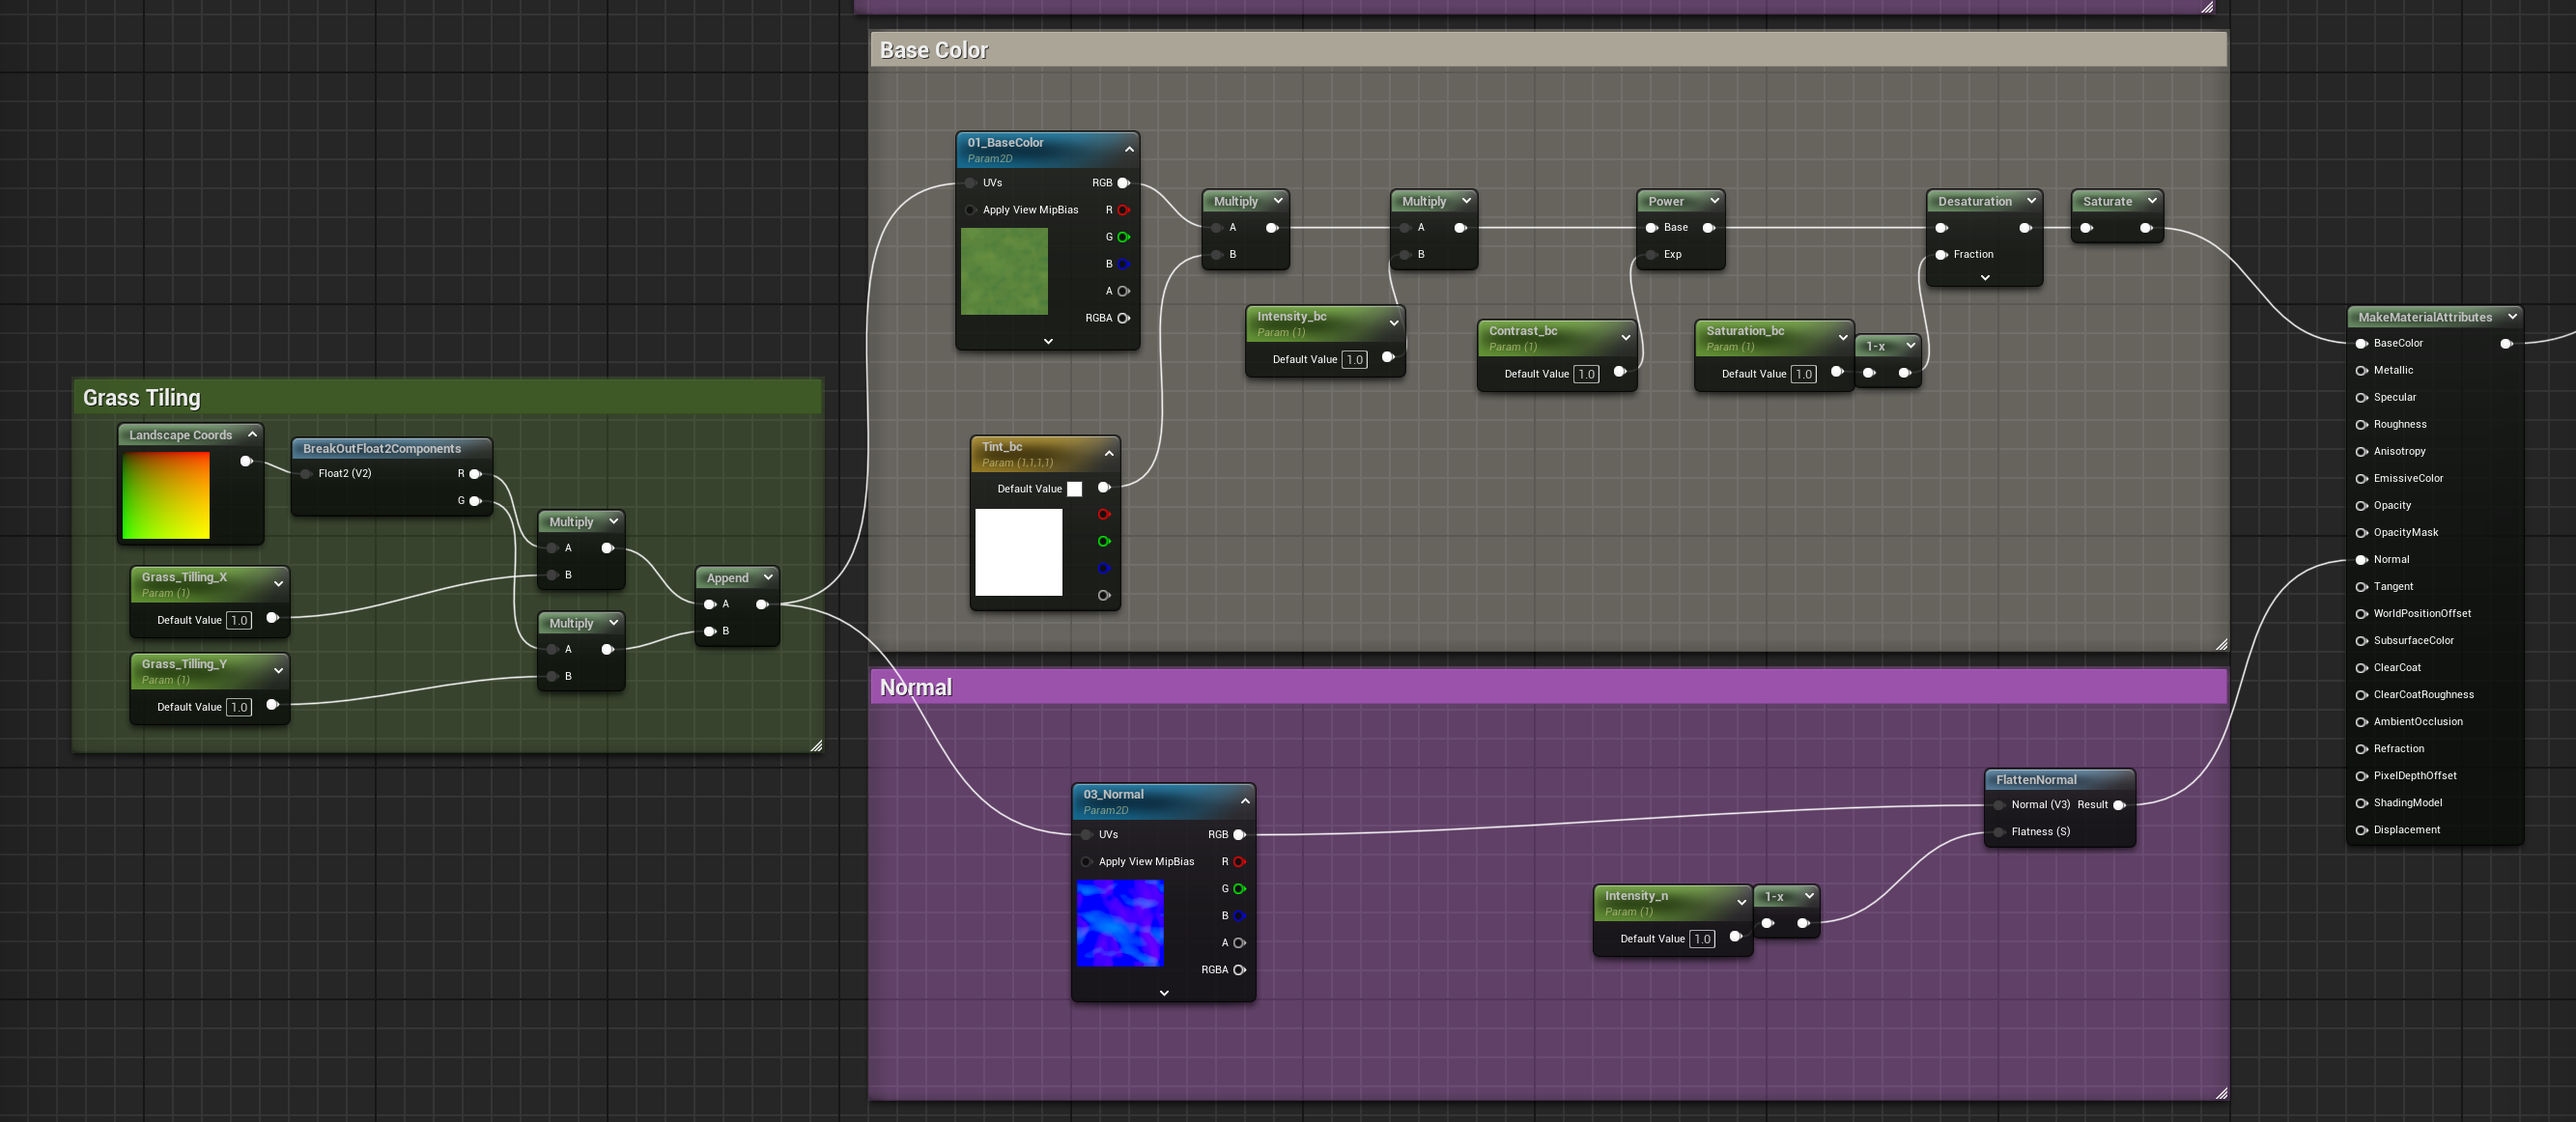
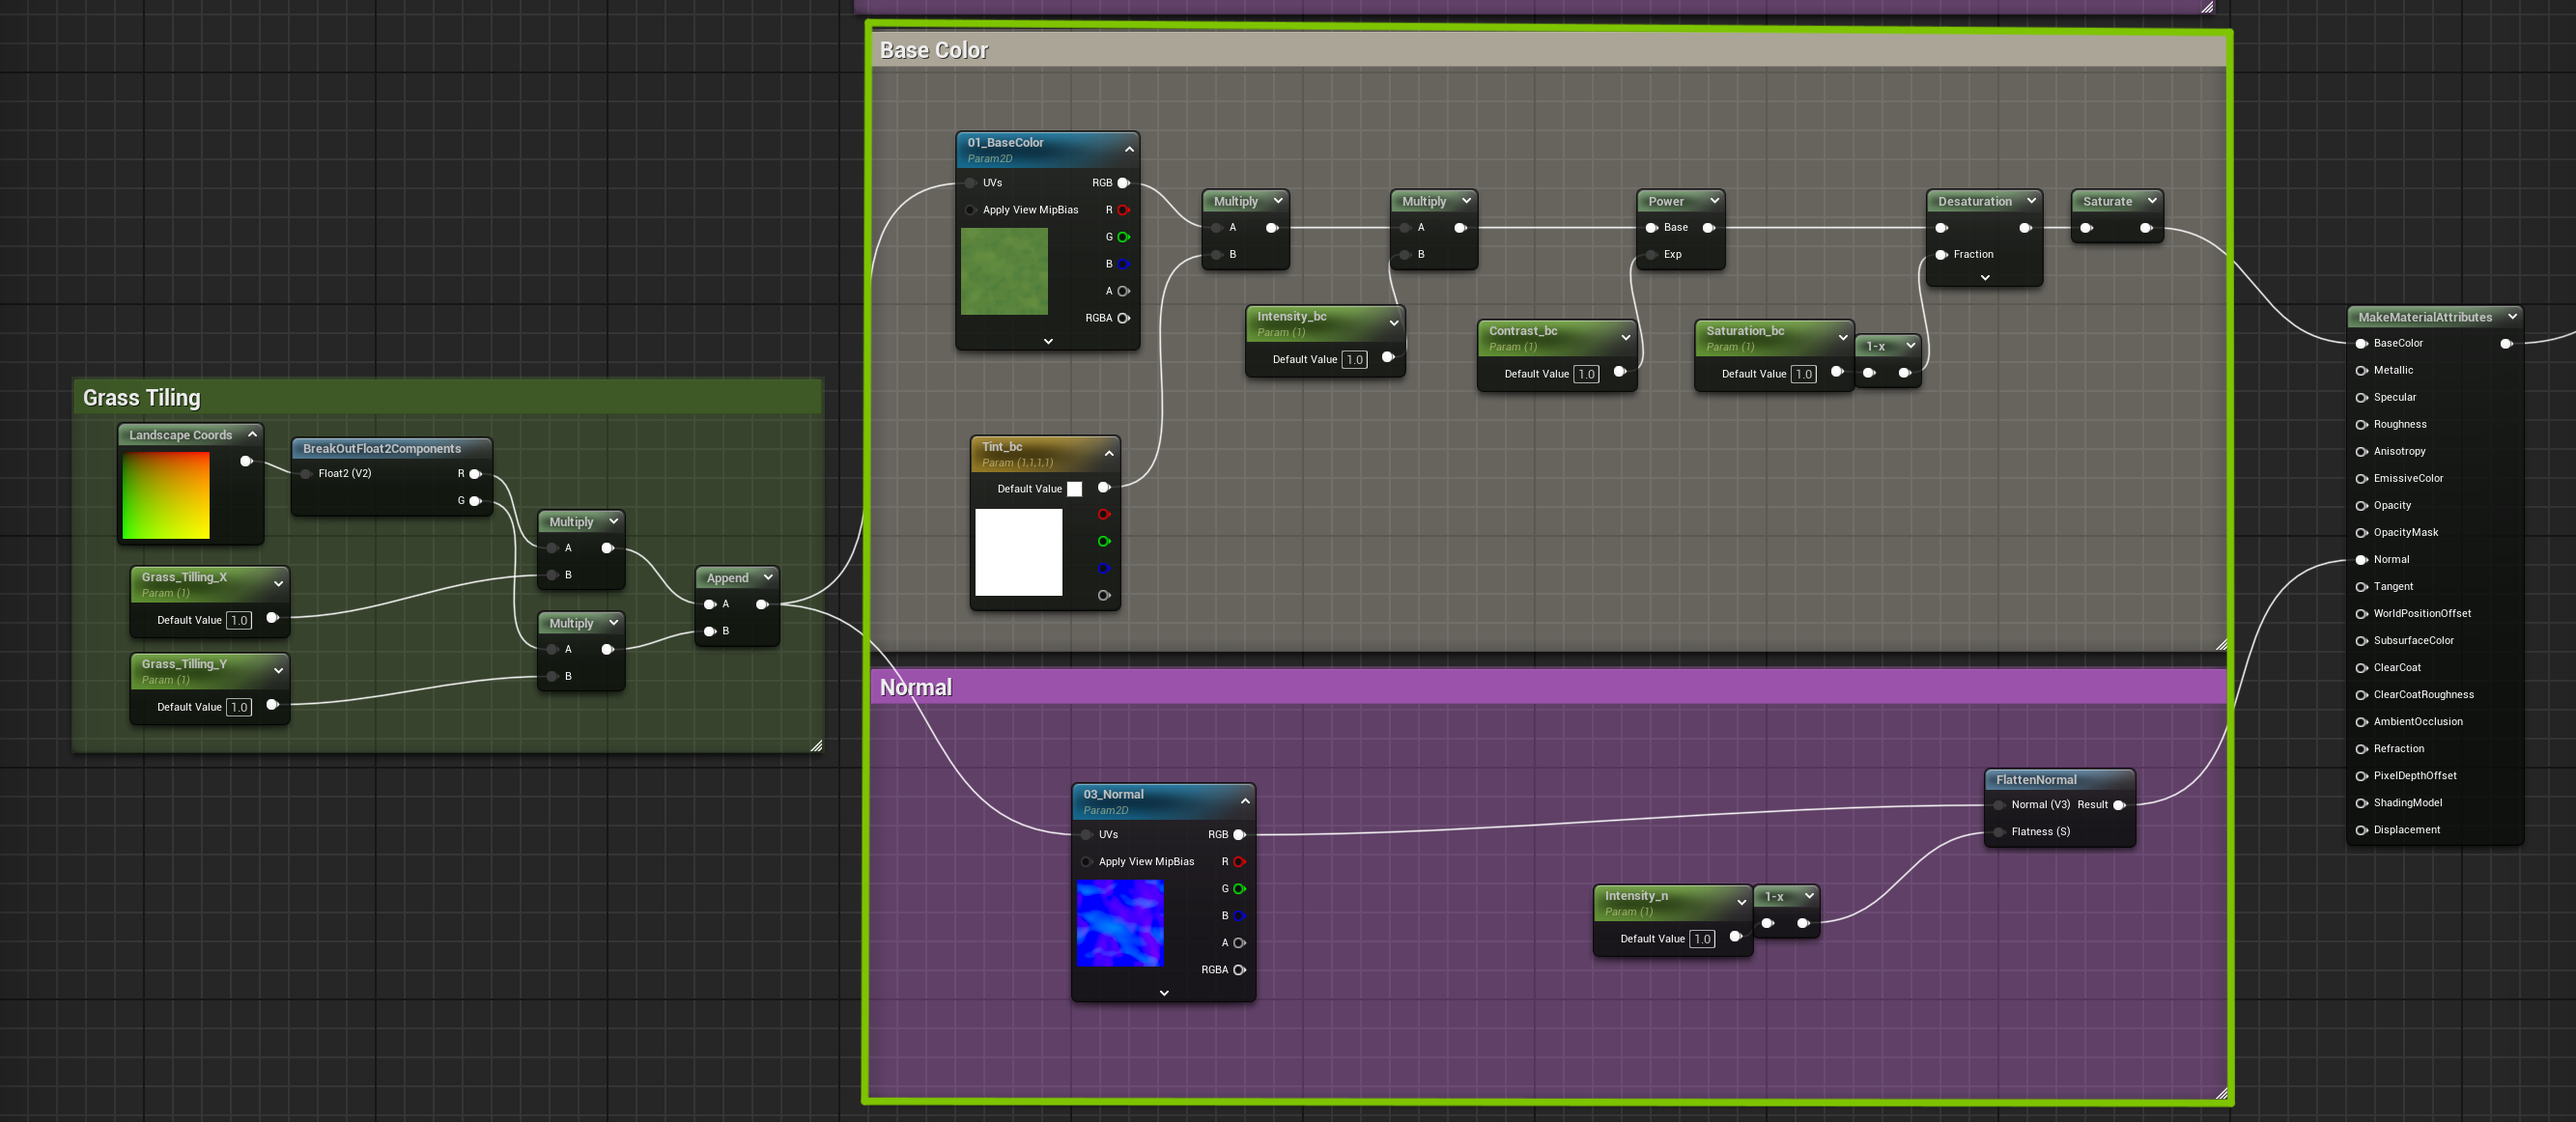
Update post

diff --git a/_posts/2024-02-16-UnrealStylizedShaders.md b/_posts/2024-02-16-UnrealStylizedShaders.md
@@ -162,12 +162,47 @@ The final result connected to the `Emissive Color` of a plane white material was
 ### Landscape and virtual texturing
 After discussion with a Game Artist friend participating in the project she pointed out the necessity of having a landscape material, that would blend vegetation and the ground seemingly.
 
+My first step toward its creation was to read the Unreal Engine 5 documentation about [Landscape](https://docs.unrealengine.com/4.26/en-US/RenderingAndGraphics/Materials/ExpressionReference/Landscape/).
+
 #### Landscape material
+After reading the documentation, I got the `Landscape Coordinates` and broke them with the `BreakOutFloat2Component` node and multiplied each output with `Path_Tiling_X` and `Path_Tiling_Y` (2 exposed floats) to then [append](https://docs.unrealengine.com/4.27/en-US/RenderingAndGraphics/Materials/ExpressionReference/VectorOps/) them back together. That gave the possibility to scale the terrain's texture.
+
 ![]({{ site.baseurl }}/assets/images/ueshaderwork/VT_Path.PNG "Virtual Texturing Path base"){: width="100%"}
+
+The same logic was applied to the grass layer.  
+The `Landscape Coordinates`, after modification, were used as input for UVs of the `BaseColor` and the `Normal` of each layer.
+
+The exposed variables for the `BaseColor` (_bc) were the following: 
+- `Tint` multiplied each channel (R,G,B,A) by the given values.
+- `Intensity` multiplied all channels uniformly.
+- `Contrast` took every channel and powered it by the given value.
+- `Saturation` used the [Desaturation](https://docs.unrealengine.com/4.27/en-US/RenderingAndGraphics/Materials/ExpressionReference/Color/) node. The input was inverted with the [OneMinus](https://docs.unrealengine.com/4.27/en-US/RenderingAndGraphics/Materials/ExpressionReference/Math/#oneminus) node just for better understanding by the artists.
+
+Finally the [Saturate](https://docs.unrealengine.com/4.27/en-US/RenderingAndGraphics/Materials/ExpressionReference/Math/#saturate) node was to clamp all values between `0` and `1`.
+
+For the `Normal` (_n), the only variable was the `Intensity` (inverted again) that was connected to a `FlattenNormal` node.
+
 ![]({{ site.baseurl }}/assets/images/ueshaderwork/VT_Grass.PNG "Virtual Texturing Grass base"){: width="100%"}
+
+The output was then injected in a [Make Material Attribute](https://docs.unrealengine.com/5.0/en-US/material-attributes-expressions-in-unreal-engine/) node.
+
+#### Virtual texturing
+After the "normal" texture treatment part each layer was connected to a [Landscape Layer Blend](https://docs.unrealengine.com/5.0/en-US/landscape-material-layer-blending-in-unreal-engine/#landscapelayerblendnode) node. That node gave the possibility to link each texture to a defined landscape layer.
+The [Break Material Attributes](https://docs.unrealengine.com/5.0/en-US/material-attributes-expressions-in-unreal-engine/#breakmaterialattributes) node that followed was used to connect the material output to the master node but also to connect it simultaneously to the [Runtime Virtual Texture Output](https://docs.unrealengine.com/5.0/en-US/runtime-virtual-texturing-in-unreal-engine/).
+
 ![]({{ site.baseurl }}/assets/images/ueshaderwork/VT_MakeMAT.PNG "Virtual Texturing make material"){: width="100%"}
+
+That `Runtime Virtual Texture Output` node took all the parameters from the `Break Material Attributes` node except from the `Normal` that was translated from [Tagent Space](https://en.wikipedia.org/wiki/Tangent_space) to [World Space](https://learnopengl.com/Getting-started/Coordinate-Systems#:~:text=The%20coordinates%20in%20world%20space,preferably%20in%20a%20realistic%20fashion) and the `WorldHeight` that took the `Y` axis of the `Absolute World Position` with a `Mask` node.
+
 ![]({{ site.baseurl }}/assets/images/ueshaderwork/VT_RTVT.PNG "Virtual Texturing Run-time Virt.Texturing"){: width="100%"}
 
+#### Setup, integration and use
+- Setup in UE landscape
+- VT Layers
+- Lanscape Tools
+- Material usage (grass)
+
+#### Final result
 ![]({{ site.baseurl }}/assets/images/ueshaderwork/VT_Blend.gif "Virtual Texturing blend"){: width="100%"}
 
 ### Water shader
